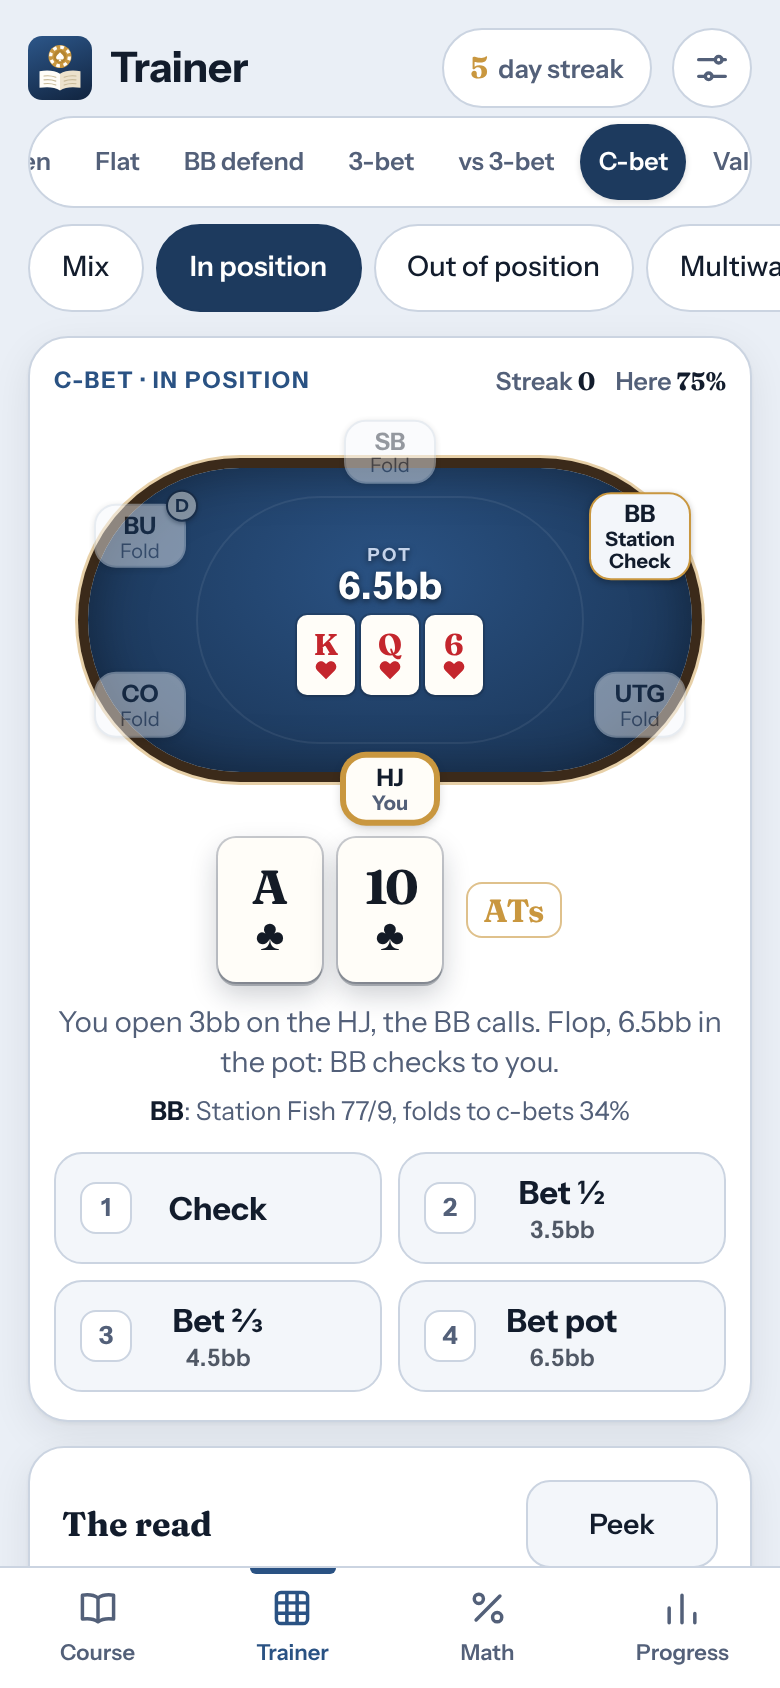
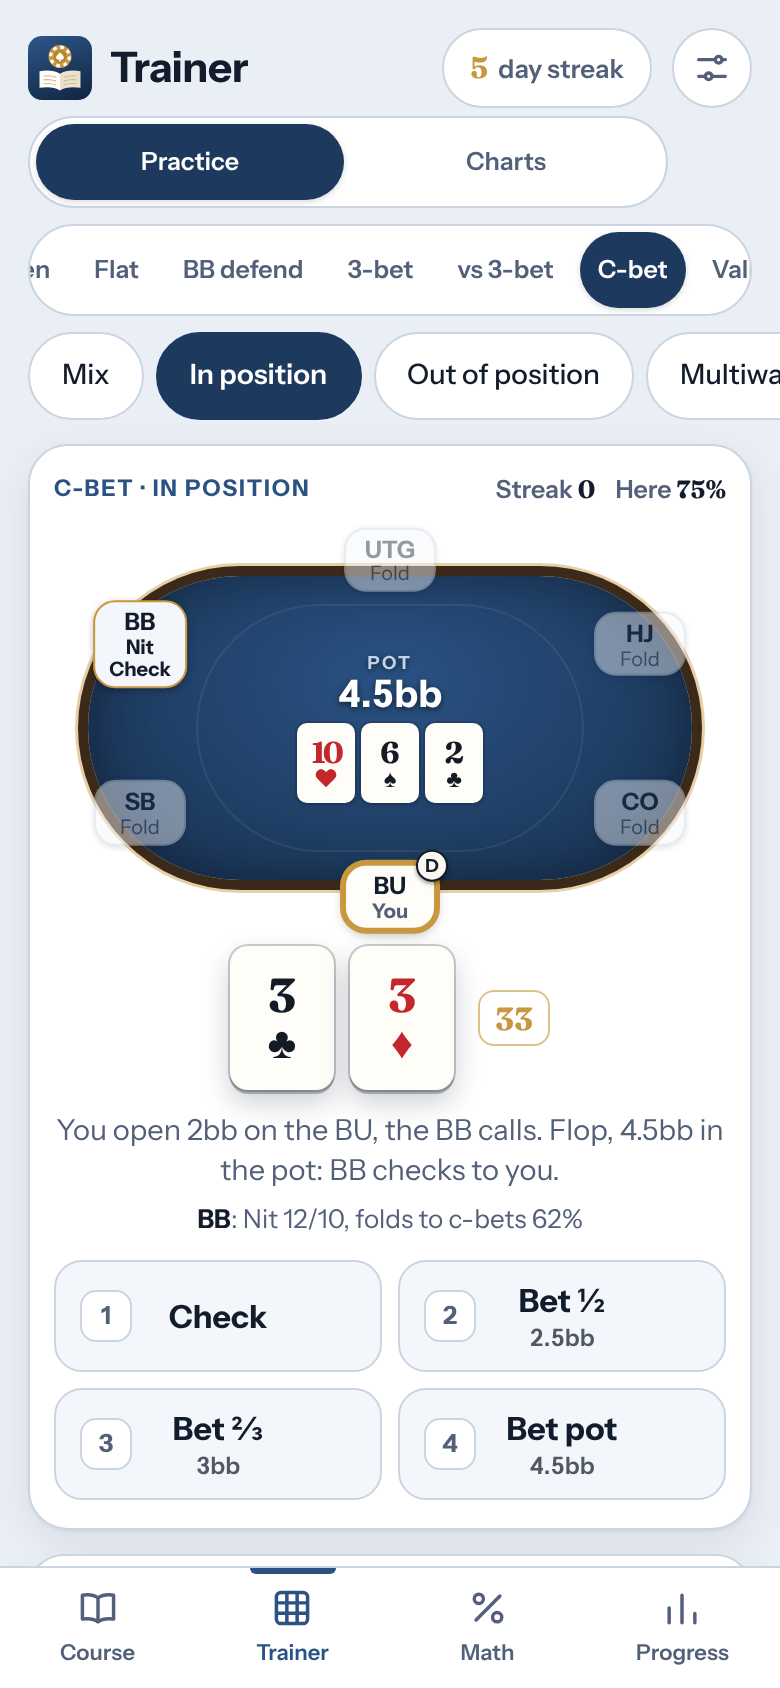
Trainer: Mix across topics and a Charts view (v2.13.0)
- Mix deals from every topic, or only the ticked ones (saved), choosing
  a topic first so post-flop spots come up as often as pre-flop ones.
  Reviews from those topics come back in it too.
- Charts: browse any chart without dealing hands, tap a square to see
  the book's answer for it, and jump to practising that chart.
- Explanations no longer repeat the action ('3-bet (3-bet for value)').

Claude-Session: https://claude.ai/code/session_01WSPbWCX6AwDLBdZwwdxWUU

diff --git a/index.html b/index.html
@@ -343,6 +343,11 @@ select,input[type=number]{background:var(--surface);border:1.5px solid var(--lin
 @media (hover:none) and (pointer:coarse){.opt .k{display:none}.acts .opt,.acts.n3 .opt{padding:0 8px}.kbd-only{display:none!important}}
 @media (max-width:440px){#v-ranges>.seg button{font-size:12.5px;padding:0 9px}}
 @media (max-width:440px){.acts.n3 .opt{padding:0 6px;font-size:15.5px}.acts.n3 .opt .k{display:none}}
+.tabseg{margin-bottom:8px;max-width:320px}
+.chinfo p{margin:8px 0 0;font-size:15px;line-height:1.5;color:var(--muted)}
+.chinfo .cpick{color:var(--ink);min-height:46px;padding:10px 12px;border-radius:12px;background:var(--surface-2);border:1px solid var(--line);margin:12px 0}
+.chinfo .btn{width:100%}
+#v-charts .rc{cursor:pointer}
 /* Trainer: group row scrolls on phones; post-flop spots */
 .gseg{overflow-x:auto;scrollbar-width:none}
 .gseg::-webkit-scrollbar{display:none}
@@ -512,6 +517,7 @@ select,input[type=number]{background:var(--surface);border:1.5px solid var(--lin
     <section class="view" id="v-home"></section>
     <section class="view" id="v-lesson" hidden></section>
     <section class="view" id="v-ranges" hidden></section>
+    <section class="view" id="v-charts" hidden></section>
     <section class="view" id="v-math" hidden></section>
     <section class="view" id="v-progress" hidden></section>
     <section class="view" id="v-settings" hidden></section>
@@ -1544,13 +1550,13 @@ const revIsDue=(it,now,count)=>it.t?now>=it.t:count>=it.n;
 function revDue(list,keys,now,count){return list.filter(it=>keys.includes(it.k)&&revIsDue(it,now,count));}
 
 /* ===================== UI (everything below needs a browser) ===================== */
-var BUILD={v:"2.12.0",at:"2026-11-21T16:33Z"};
+var BUILD={v:"2.13.0",at:"2026-11-22T12:31Z"};
 const $=(s,r=document)=>r.querySelector(s);
 const $$=(s,r=document)=>[...r.querySelectorAll(s)];
 
 /* ---------- storage (same key and shape as v1, so existing progress carries over) ---------- */
 const KEY='gm-trainer-v1';
-const BLANK=()=>({lessons:{},quiz:{},drills:{},days:[],math:{},log:{},rev:[],rvN:0,theme:'auto'});
+const BLANK=()=>({lessons:{},quiz:{},drills:{},days:[],math:{},log:{},rev:[],rvN:0,mixG:[],theme:'auto'});
 let S=BLANK();
 try{const raw=localStorage.getItem(KEY);if(raw)S=Object.assign(BLANK(),JSON.parse(raw));}catch(e){}
 function save(){try{localStorage.setItem(KEY,JSON.stringify(S));}catch(e){}}
@@ -1580,7 +1586,7 @@ document.addEventListener('pointerdown',e=>{
 if(mqDark&&mqDark.addEventListener)mqDark.addEventListener('change',applyTheme);
 
 /* ---------- routing ---------- */
-const TITLES={home:'Course',lesson:'Course',ranges:'Trainer',math:'Math drills',progress:'Progress',settings:'Settings'};
+const TITLES={home:'Course',lesson:'Course',ranges:'Trainer',charts:'Charts',math:'Math drills',progress:'Progress',settings:'Settings'};
 let VIEW='home';
 function go(h){location.hash=h;}
 function parseHash(){
@@ -1591,15 +1597,16 @@ function parseHash(){
 function route(){
   const r=parseHash();VIEW=r.v;
   Object.keys(TITLES).forEach(x=>{$('#v-'+x).hidden=x!==VIEW;});
-  $$('#nav button').forEach(b=>b.setAttribute('aria-current',(b.dataset.v===VIEW||(VIEW==='lesson'&&b.dataset.v==='home'))?'page':'false'));
+  $$('#nav button').forEach(b=>b.setAttribute('aria-current',(b.dataset.v===VIEW||(VIEW==='lesson'&&b.dataset.v==='home')||(VIEW==='charts'&&b.dataset.v==='ranges'))?'page':'false'));
   $('#setBtn').setAttribute('aria-current',VIEW==='settings'?'page':'false');
-  if(VIEW==='ranges'&&r.arg&&(SPOTS[r.arg]||(r.arg.startsWith('mix-')&&GROUPS.includes(r.arg.slice(4))))&&r.arg!==RT.mode){RT.mode=r.arg;RT.streak=0;RT.since=REV_GAP;dealHand();}
+  if(VIEW==='ranges'&&r.arg&&(SPOTS[r.arg]||(r.arg.startsWith('mix-')&&(GROUPS.includes(r.arg.slice(4))||r.arg==='mix-All')))&&r.arg!==RT.mode){RT.mode=r.arg;RT.streak=0;RT.since=REV_GAP;dealHand();}
   if(VIEW==='lesson')LS.want=r.id;
+  if(VIEW==='charts'&&r.arg&&MODES[r.arg])CH.mode=r.arg;
   render();window.scrollTo(0,0);
 }
 function render(){
   $('#ptitle').textContent=TITLES[VIEW];
-  ({home:renderHome,lesson:()=>renderLesson(LS.want),ranges:renderRanges,math:renderMath,progress:renderProgress,settings:renderSettings})[VIEW]();
+  ({home:renderHome,lesson:()=>renderLesson(LS.want),ranges:renderRanges,charts:renderCharts,math:renderMath,progress:renderProgress,settings:renderSettings})[VIEW]();
   updateChrome();
 }
 function updateChrome(){
@@ -1726,7 +1733,9 @@ const GROUPS=[...new Set(Object.values(SPOTS).map(x=>x.grp))];
 const SEATS6=['UTG','HJ','CO','BU','SB','BB'];
 let RT={mode:'open-UTG',cur:'open-UTG',hand:null,suits:null,ps:null,rev:null,since:REV_GAP,answered:null,peek:false,streak:0,sc:0,sn:0};
 const grpOf=m=>m.startsWith('mix-')?m.slice(4):SPOTS[m].grp;
-const modeKeys=m=>m.startsWith('mix-')?Object.keys(SPOTS).filter(k=>SPOTS[k].grp===m.slice(4)):[m];
+/* Mix (mode mix-All) deals from every topic, or only the topics ticked in S.mixG (empty = all). */
+const mixGroups=()=>{const g=(S.mixG||[]).filter(x=>GROUPS.includes(x));return g.length?g:GROUPS;};
+const modeKeys=m=>m==='mix-All'?Object.keys(SPOTS).filter(k=>mixGroups().includes(SPOTS[k].grp)):m.startsWith('mix-')?Object.keys(SPOTS).filter(k=>SPOTS[k].grp===m.slice(4)):[m];
 const dueHere=()=>revDue(S.rev,modeKeys(RT.mode),Date.now(),S.rvN).length;
 function inSet(m,h){return answerOf(m,h)!=='f';}
 /* Hands next to a hand with a different answer: where the decisions are. */
@@ -1739,7 +1748,8 @@ function dealHand(){
     if(due.length){const it=due[0];RT.rev=it.id;RT.cur=it.k;RT.since=0;
       if(PMODES[it.k])RT.ps=it.s;else{RT.hand=it.s.h;RT.suits=it.s.u;}return;}}
   RT.since++;
-  RT.cur=keys[Math.floor(Math.random()*keys.length)];
+  if(RT.mode==='mix-All'){const gs=mixGroups(),g=gs[Math.floor(Math.random()*gs.length)],ks=keys.filter(k=>SPOTS[k].grp===g);RT.cur=ks[Math.floor(Math.random()*ks.length)];}
+  else RT.cur=keys[Math.floor(Math.random()*keys.length)];
   if(PMODES[RT.cur]){RT.ps=PMODES[RT.cur].gen();return;}
   const pool=MODES[RT.cur].pool||allHands();let h;
   const e=edgeHands(RT.cur,pool);
@@ -1790,13 +1800,19 @@ function gridHTML(m,cur){
    Cards play the deal animation only when a new hand is dealt (RT.fresh). */
 function renderRanges(){
   if(!RT.hand&&!RT.ps)dealHand();
-  const g=grpOf(RT.mode);
-  $('#v-ranges').innerHTML=`
-  <div class="seg gseg" role="group" aria-label="Spot type">${GROUPS.map(x=>`<button data-g="${x}" aria-pressed="${x===g}">${x}</button>`).join('')}</div>
-  <div class="chips" role="group" aria-label="Spot">${[['mix-'+g,'Mix']].concat(Object.entries(SPOTS).filter(([k,v])=>v.grp===g).map(([k,v])=>[k,v.label])).map(([k,t])=>`<button class="chip" data-m="${k}" aria-pressed="${k===RT.mode}">${t}</button>`).join('')}</div>
+  const g=grpOf(RT.mode),mg=mixGroups();
+  const row2=g==='All'?`<div class="chips" role="group" aria-label="Topics in the mix">${GROUPS.map(x=>`<button class="chip tgl" data-tg="${x}" aria-pressed="${mg.includes(x)}">${mg.includes(x)?'✓ ':''}${x}</button>`).join('')}</div>`
+    :`<div class="chips" role="group" aria-label="Spot">${[['mix-'+g,'Mix']].concat(Object.entries(SPOTS).filter(([k,v])=>v.grp===g).map(([k,v])=>[k,v.label])).map(([k,t])=>`<button class="chip" data-m="${k}" aria-pressed="${k===RT.mode}">${t}</button>`).join('')}</div>`;
+  $('#v-ranges').innerHTML=`${tabsHTML('ranges')}
+  <div class="seg gseg" role="group" aria-label="Spot type">${['All',...GROUPS].map(x=>`<button data-g="${x}" aria-pressed="${x===g}">${x==='All'?'Mix':x}</button>`).join('')}</div>
+  ${row2}
   <div class="drill"><div class="left" id="rt-spot"></div><div class="box chartbox" id="rt-chart"></div></div>`;
+  bindTabs();
   $$('#v-ranges [data-g]').forEach(b=>b.onclick=()=>setMode('mix-'+b.dataset.g));
   $$('#v-ranges [data-m]').forEach(b=>b.onclick=()=>setMode(b.dataset.m));
+  $$('#v-ranges [data-tg]').forEach(b=>b.onclick=()=>{const x=b.dataset.tg;let cur=mixGroups().slice();
+    if(cur.includes(x)){if(cur.length===1){toast('Keep at least one topic in the mix');return;}cur=cur.filter(y=>y!==x);}else cur.push(x);
+    S.mixG=cur.length===GROUPS.length?[]:cur;save();RT.since=REV_GAP;dealHand();renderRanges();});
   $$('#v-ranges [aria-pressed="true"]').forEach(sel=>{const pr=sel.parentNode.getBoundingClientRect(),r=sel.getBoundingClientRect();if(r.right>pr.right-14)sel.parentNode.scrollLeft+=r.right-pr.right+28;});
   drawSpot();drawChart();
 }
@@ -1807,9 +1823,9 @@ function drawSpot(){
   const btn=([k,t],i)=>`<button class="opt${i===0?' go':''}${a===null?'':(k===right?' right':k===a?' wrong':' dim')+(k===a?' picked':'')}" data-k="${k}"${a!==null?' disabled':''}><span class="k" aria-hidden="true">${i+1}</span>${t}</button>`;
   const tr=tierOf(m,RT.hand),lab=(md.opts.find(o=>o[0]===right)||md.opts[md.opts.length-1])[1];
   const why=md.opts.length===2&&!md.scene?` ${RT.hand} is ${right!=='f'?(md.act==='Call'?'a call':'a '+md.act.toLowerCase().replace(/ .*/,''))+' in this spot: it sits inside the '+pct(rangePct(md.set))+' range.':'a fold in this spot'+(tr&&tr[1]==='dyn'?': it opens at a normal table, not with this player behind you.':': it is outside the '+pct(rangePct(md.set))+' range.')}`
-    :` ${RT.hand}: ${right==='f'?'fold.':tr[2].toLowerCase()===lab.toLowerCase()?lab.toLowerCase()+'.':`${lab.toLowerCase()} (“${tr[2]}” in the book’s chart).`}`;
+    :` ${RT.hand}: ${right==='f'?'fold.':actText(lab,tr[2])+'.'}`;
   $('#rt-spot').innerHTML=`<div class="spot">
-      ${sheadHTML(md.label,st)}
+      ${sheadHTML(RT.mode==='mix-All'?md.grp+' · '+md.label:md.label,st)}
       ${tableHTML(md)}
       <div class="hand">${cardHTML(RT.hand[0],RT.suits[0],deal)}${cardHTML(RT.hand[1],RT.suits[1],deal)}<span class="badge">${RT.hand}</span></div>
       <p class="sinfo">${md.info}</p>
@@ -1900,6 +1916,32 @@ function answerRT(k){
   RT.streak=right?RT.streak+1:0;RT.answered=k;drawSpot();drawChart();
   const nx=$('#rt-next');if(nx)nx.focus({preventScroll:true});
 }
+
+/* ---------- charts: look up any range without dealing hands ---------- */
+const tabsHTML=v=>`<div class="seg tabseg" role="group" aria-label="Trainer view"><button data-view="ranges" aria-pressed="${v==='ranges'}">Practice</button><button data-view="charts" aria-pressed="${v==='charts'}">Charts</button></div>`;
+const bindTabs=()=>$$('[data-view]').forEach(b=>b.onclick=()=>go(b.dataset.view==='charts'?'charts/'+CH.mode:'ranges/'+RT.mode));
+const CGROUPS=[...new Set(Object.values(MODES).map(x=>x.grp))];
+let CH={mode:'open-UTG',pick:null};
+function renderCharts(){
+  const md=MODES[CH.mode],g=md.grp;
+  $('#v-charts').innerHTML=`${tabsHTML('charts')}
+  <div class="seg gseg" role="group" aria-label="Chart group">${CGROUPS.map(x=>`<button data-cg="${x}" aria-pressed="${x===g}">${x}</button>`).join('')}</div>
+  <div class="chips" role="group" aria-label="Chart">${Object.entries(MODES).filter(([k,v])=>v.grp===g).map(([k,v])=>`<button class="chip" data-cm="${k}" aria-pressed="${k===CH.mode}">${v.label}</button>`).join('')}</div>
+  <div class="drill"><div class="box chartbox"><div class="ch"><b>${md.label} chart</b></div>${gridHTML(CH.mode,CH.pick)}${chartNote(md)}</div>
+    <div class="box chinfo"><b class="num" style="font-size:17px">${g} · ${md.label}</b><p>${md.info}</p>
+      <p class="cpick" aria-live="polite">${CH.pick?pickText(CH.mode,CH.pick):'Tap a square to see what the book does with that hand.'}</p>
+      <a class="btn" href="#ranges/${CH.mode}">Practise this chart →</a></div></div>`;
+  bindTabs();
+  $$('#v-charts [data-cg]').forEach(b=>b.onclick=()=>{CH.mode=Object.keys(MODES).find(k=>MODES[k].grp===b.dataset.cg);CH.pick=null;history.replaceState(null,'','#charts/'+CH.mode);renderCharts();});
+  $$('#v-charts [data-cm]').forEach(b=>b.onclick=()=>{CH.mode=b.dataset.cm;CH.pick=null;history.replaceState(null,'','#charts/'+CH.mode);renderCharts();});
+  $$('#v-charts .rc').forEach(c=>c.onclick=()=>{CH.pick=c.textContent;renderCharts();});
+  $$('#v-charts [aria-pressed="true"]').forEach(sel=>{const pr=sel.parentNode.getBoundingClientRect(),r=sel.getBoundingClientRect();if(r.right>pr.right-14)sel.parentNode.scrollLeft+=r.right-pr.right+28;});
+}
+function pickText(m,h){const md=MODES[m],t=tierOf(m,h),a=answerOf(m,h),lab=(md.opts.find(o=>o[0]===a)||['','Fold'])[1];
+  if(md.pool&&!md.pool.includes(h))return `<b>${h}</b>: not in your opening range, so this spot never comes up with it.`;
+  return `<b>${h}</b>: ${a==='f'?'fold':actText(lab,t?t[2]:lab)}. ${combos(h)} combos.`;}
+/* "3-bet" + chart label "3-bet for value (Ch. 10)" → the label; "Call" + "+ vs 2.5x" → "call (+ vs 2.5x in the book’s chart)". */
+function actText(lab,leg){const a=lab.toLowerCase(),l=leg.toLowerCase();return l===a||l.startsWith(a)?l:`${a} (“${leg}” in the book’s chart)`;}
 
 /* ---------- math drills ---------- */
 let MT={type:'rfe',cur:null,answered:null,score:0,n:0};

diff --git a/sw.js b/sw.js
@@ -1,4 +1,4 @@
-const CACHE = "grinders-manual-2.12.0";
+const CACHE = "grinders-manual-2.13.0";
 const FILES = ["./", "index.html", "manifest.webmanifest", "icon.svg", "icon-192.png", "icon-512.png", "icon-maskable-512.png", "apple-touch-icon.png",
   "fonts/fraunces-latin-500-normal.woff2", "fonts/fraunces-latin-700-normal.woff2", "fonts/instrument-sans-latin-400-normal.woff2",
   "fonts/instrument-sans-latin-500-normal.woff2", "fonts/instrument-sans-latin-600-normal.woff2", "fonts/instrument-sans-latin-700-normal.woff2"];

diff --git a/CLAUDE.md b/CLAUDE.md
@@ -18,8 +18,8 @@ Everything above `/* ===================== UI` is data and pure functions; the t
 3. `toolHTML`/`bindTool`: the interactive lesson tools. `MATH`: drill generators returning `{q, opts, a, why}`.
 3b. Post-flop spots (`/* ---------- post-flop spots`, v2.11): `PMODES` (`cb-ip`, `cb-oop`, `cb-mw` in group C-bet; `vb-turn`, `vb-river` in group Value bet), each with `gen()` returning a plain-JSON spot `{kind, seat, vill, hole, board, pot, info, hud, opts:[key,label,amount], ans, verdict, why, notes{key:why-not}, principle, factors|q}`. Cards are `'Td'` strings. `pfScore` (evaluator), `pfRead` (made-hand class: strong/over/top/mid/low/under/none), `pfTexture` (Ch. 4's types 1-5; the tests check the lesson's ten example flops), `pfOuts` (the Ch. 4 outs table; tests check the book's KJ/AQ/77 examples). `PF_TYPES` are the book's player types (Reg, Nit, Fit-or-fold Fish, Station Fish, Aggro Fish) with HUD ranges. C-bets: `cbGrade` = value → bet; stable SDV → check; light hands → expected folds (`cbFold`: his Fold to F Cbet moved by texture, range, position, raise stat; multiplied multiway) vs needed (RFE of the size minus equity), dealt only when the margin is 8+ points either way; size `cbSize` = the lesson's sizing grid vs aware players (flop dry 1-2 / semi-wet 3 / wet 4-5 = 0/1/2, plus range BU 0, CO/SB 1, UTG/HJ 2; 0-1 small ½, 2 medium ⅔, 3-4 large pot; the Ch. 4 lesson shows the same grid), big value / small light vs Fish. Value bets: `vbGrade` = the Ch. 5 flowchart (Q1 relative strength with scare cards and opponent type, Q2 stack vs pot, Q3 slowplay only with a short stack), size by elasticity (Fish inelastic → pot, Reg → ⅔, thin vs Reg → ½, all-in when the stack is under a pot). Unclear spots return null and aren't dealt. Change a rule → update the explanation text and the tests together.
 3c. Spaced repetition (`LADDER`, `revAdd`, `revAnswer`, `revDue`): a missed trainer spot (pre-flop `{h,u}` or the whole post-flop spot) is saved in `S.rev` and comes back in the topic being drilled 3-4 spots later, ~15 later, then 1, 3, 7 days; `REV_GAP` keeps it to one spot in four. `S.rvN` counts spots dealt.
-4. UI: hash routes `#home`, `#lesson-<id>`, `#ranges[/<mode>|/mix-<group>]` (the Trainer tab; `SPOTS` = `MODES` + `PMODES`), `#math`, `#progress`, `#settings`. `render()` per view. The range trainer draws the table with `tableHTML` (seats on an oval, hero at the bottom, chips `.stk` between seat and pot, dealer button on BU) and the chart with `gridHTML`.
-5. Storage: localStorage key `gm-trainer-v1`, state `{lessons, quiz, drills, days, math, log, rev, rvN, theme}`. Keep the key and shape; add fields with defaults in `BLANK()`.
+4. UI: hash routes `#home`, `#lesson-<id>`, `#ranges[/<mode>|/mix-<group>|/mix-All]` (the Trainer tab, Practice view; `SPOTS` = `MODES` + `PMODES`; `mix-All` deals from every topic or the ones ticked in `S.mixG`, picking a topic first so post-flop isn't swamped by the 42 chart spots), `#charts[/<mode>]` (Trainer, Charts view: browse any chart without dealing, tap a square for its answer, `CH`, `renderCharts`; Practice/Charts switch is `tabsHTML`), `#math`, `#progress`, `#settings`. `render()` per view. The range trainer draws the table with `tableHTML` (seats on an oval, hero at the bottom, chips `.stk` between seat and pot, dealer button on BU) and the chart with `gridHTML`.
+5. Storage: localStorage key `gm-trainer-v1`, state `{lessons, quiz, drills, days, math, log, rev, rvN, mixG, theme}`. Keep the key and shape; add fields with defaults in `BLANK()`.
 
 ## Conventions
 - Phone first: tap targets at least 44px, the main action in the sticky `.actions` bar above the bottom nav. At 960px and up the nav becomes a left rail and drills go two columns.

diff --git a/README.md b/README.md
@@ -16,6 +16,7 @@
 - **Interactive tools** inside the lessons: steal calculator, ISO sizing, bet size vs required fold equity, required equity, the value-bet flowchart and a 3-bet shape helper.
 - **Trainer, pre-flop.** 42 spots read cell by cell from the book’s charts, dealt on a six-seat table with who folded, raised, called or 3-bet, the blinds and the pot in chips, and your two cards. Groups: **Open** (default, fish/nit hunting and defensive ranges), **Flat** and **BB defend** (Ch. 6's calling charts, including the SB spots and calls by open size, with Ch. 10's value 3-bets on top: 3-bet / call / fold), **3-bet** (polar, linear and squeeze ranges from Ch. 10) and **vs 3-bet** (4-bet / call / fold defences from Ch. 11). The chart opens after each answer with your hand marked. Chart colours mean the same thing everywhere: navy = raise (open, 3-bet, squeeze, 4-bet, shove), teal = call, grey = fold, lighter shades for the extra or bluff tiers. 60% of hands come from the edge of the range, where the decisions are. *Mix* deals random spots from a group.
 - **Trainer, post-flop.** Endless spots generated by code. **C-bet** (Ch. 4: in position, out of position, multiway): check, or bet ½, ⅔ or pot. The answer comes from the book’s seven factors (texture type 1-5, equity from outs, opponent type and his Fold to F Cbet, showdown value, players, turn prospects, position) and the Figure 22 sizing guide, balanced against Regs and unbalanced against Fish. **Value bet** (Ch. 5: turn and river): the three questions (relative hand strength, building the pot, slowplaying) and sizing by elasticity. After each answer: why, why not your pick, and the read (factor checklist, expected vs needed folds, sizing zone, or the three questions).
+- **Mix and Charts.** *Mix* deals from every topic at once, or only the topics you tick. *Charts* shows any of the book’s ranges without dealing hands: tap a square to see what the book does with that hand, then practise that chart.
 - **Spaced repetition.** Every trainer topic: a missed spot comes back in the topic you’re drilling 3-4 spots later, then ~15 spots later, then after 1, 3 and 7 days, at most one spot in four. A right answer moves it up a step, a miss starts it again.
 - **Math drills.** Endless required fold equity, equity to call, outs to equity, combined fold equity and combo questions, with the milestone table alongside.
 - **Progress.** This week (answers, accuracy, days studied), what to work on next (reviews due, weakest trainer spots, quizzes to retake, weak math drills, groups not tried), the trainer by group, math drill tiles and a 16-week activity calendar. Chapter scores stay on the Course tab.
